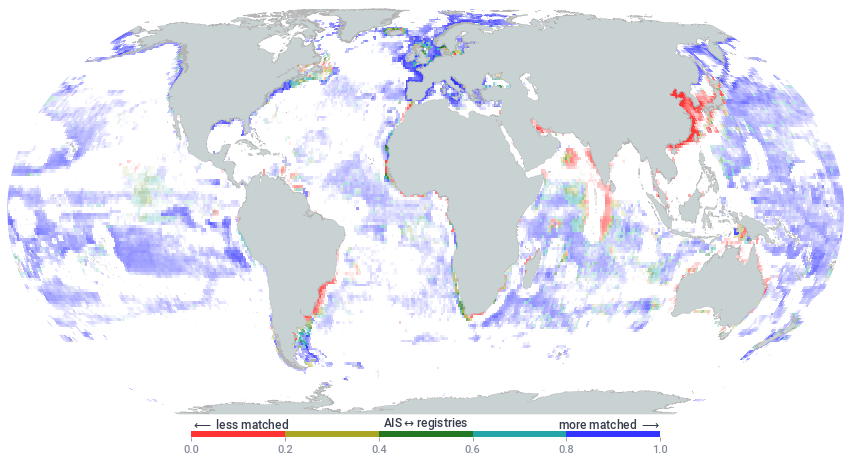
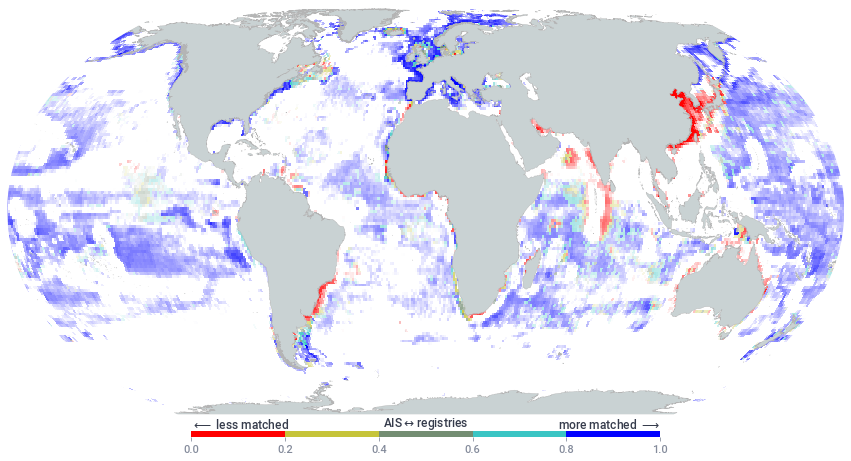
update ramp generator code

diff --git a/pyseas/doc/Examples.py b/pyseas/doc/Examples.py
@@ -670,22 +670,20 @@ with psm.context(psm.styles.light):
 # This works nicely with a discretized coloramp, which be be realized using 
 # `Boundary
 
-def make_red_blue_ramp(value=1.0, min_sat=0.4, name="red_blue_bv"):
-    return mpcolors.LinearSegmentedColormap.from_list(
-        name,
-        [
-            mpcolors.hsv_to_rgb((r, value, g))
-            for r, g in zip(
-                np.linspace(0, 0.666, 10, endpoint=True),
-                min_sat + (1 - min_sat) * abs(np.linspace(-1, 1, 10, endpoint=True)),
-            )
-        ],
-    )
+def make_red_green_blue_ramp(L=0.5, min_S_l=0.4, name="red_blue_bv", n=255):
+    colors = []
+    hues = np.linspace(0, 0.666, n, endpoint=True) 
+    sats = min_S_l + (1 - min_S_l) * abs(np.linspace(-1, 1, n, endpoint=True))
+    for H, S_l in zip(hues, sats):
+        V = L + S_l * min(L, 1 - L)
+        S_v = 2 * (1 - L / V)
+        colors.append(mpcolors.hsv_to_rgb((H, S_v, V)))
+    return mpcolors.LinearSegmentedColormap.from_list(name, colors)
 
 
 # +
-red_blue = make_red_blue_ramp(value=0.8, min_sat=0.4)
-    
+red_blue = make_red_green_blue_ramp(min_S_l=0.1)
+
 with psm.context(psm.styles.light):
     fig = plt.figure(figsize=(15, 15), facecolor="white")
     ax = psm.create_map()

diff --git a/pyseas/maps/bivariate.py b/pyseas/maps/bivariate.py
@@ -3,7 +3,7 @@ import warnings
 import matplotlib.pyplot as plt
 import numpy as np
 from matplotlib.colors import (BoundaryNorm, Colormap, LinearSegmentedColormap,
-                               LogNorm, Normalize)
+                               LogNorm, Normalize, hsv_to_rgb, rgb_to_hsv)
 
 from .. import props
 from . import core

diff --git a/pyseas/doc/Examples.md b/pyseas/doc/Examples.md
@@ -941,23 +941,21 @@ This works nicely with a discretized coloramp, which be be realized using
 
 
 ```python
-def make_red_blue_ramp(value=1.0, min_sat=0.4, name="red_blue_bv"):
-    return mpcolors.LinearSegmentedColormap.from_list(
-        name,
-        [
-            mpcolors.hsv_to_rgb((r, value, g))
-            for r, g in zip(
-                np.linspace(0, 0.666, 10, endpoint=True),
-                min_sat + (1 - min_sat) * abs(np.linspace(-1, 1, 10, endpoint=True)),
-            )
-        ],
-    )
+def make_red_green_blue_ramp(L=0.5, min_S_l=0.4, name="red_blue_bv", n=255):
+    colors = []
+    hues = np.linspace(0, 0.666, n, endpoint=True) 
+    sats = min_S_l + (1 - min_S_l) * abs(np.linspace(-1, 1, n, endpoint=True))
+    for H, S_l in zip(hues, sats):
+        V = L + S_l * min(L, 1 - L)
+        S_v = 2 * (1 - L / V)
+        colors.append(mpcolors.hsv_to_rgb((H, S_v, V)))
+    return mpcolors.LinearSegmentedColormap.from_list(name, colors)
 ```
 
 
 ```python
-red_blue = make_red_blue_ramp(value=0.8, min_sat=0.4)
-    
+red_blue = make_red_green_blue_ramp(min_S_l=0.1)
+
 with psm.context(psm.styles.light):
     fig = plt.figure(figsize=(15, 15), facecolor="white")
     ax = psm.create_map()
